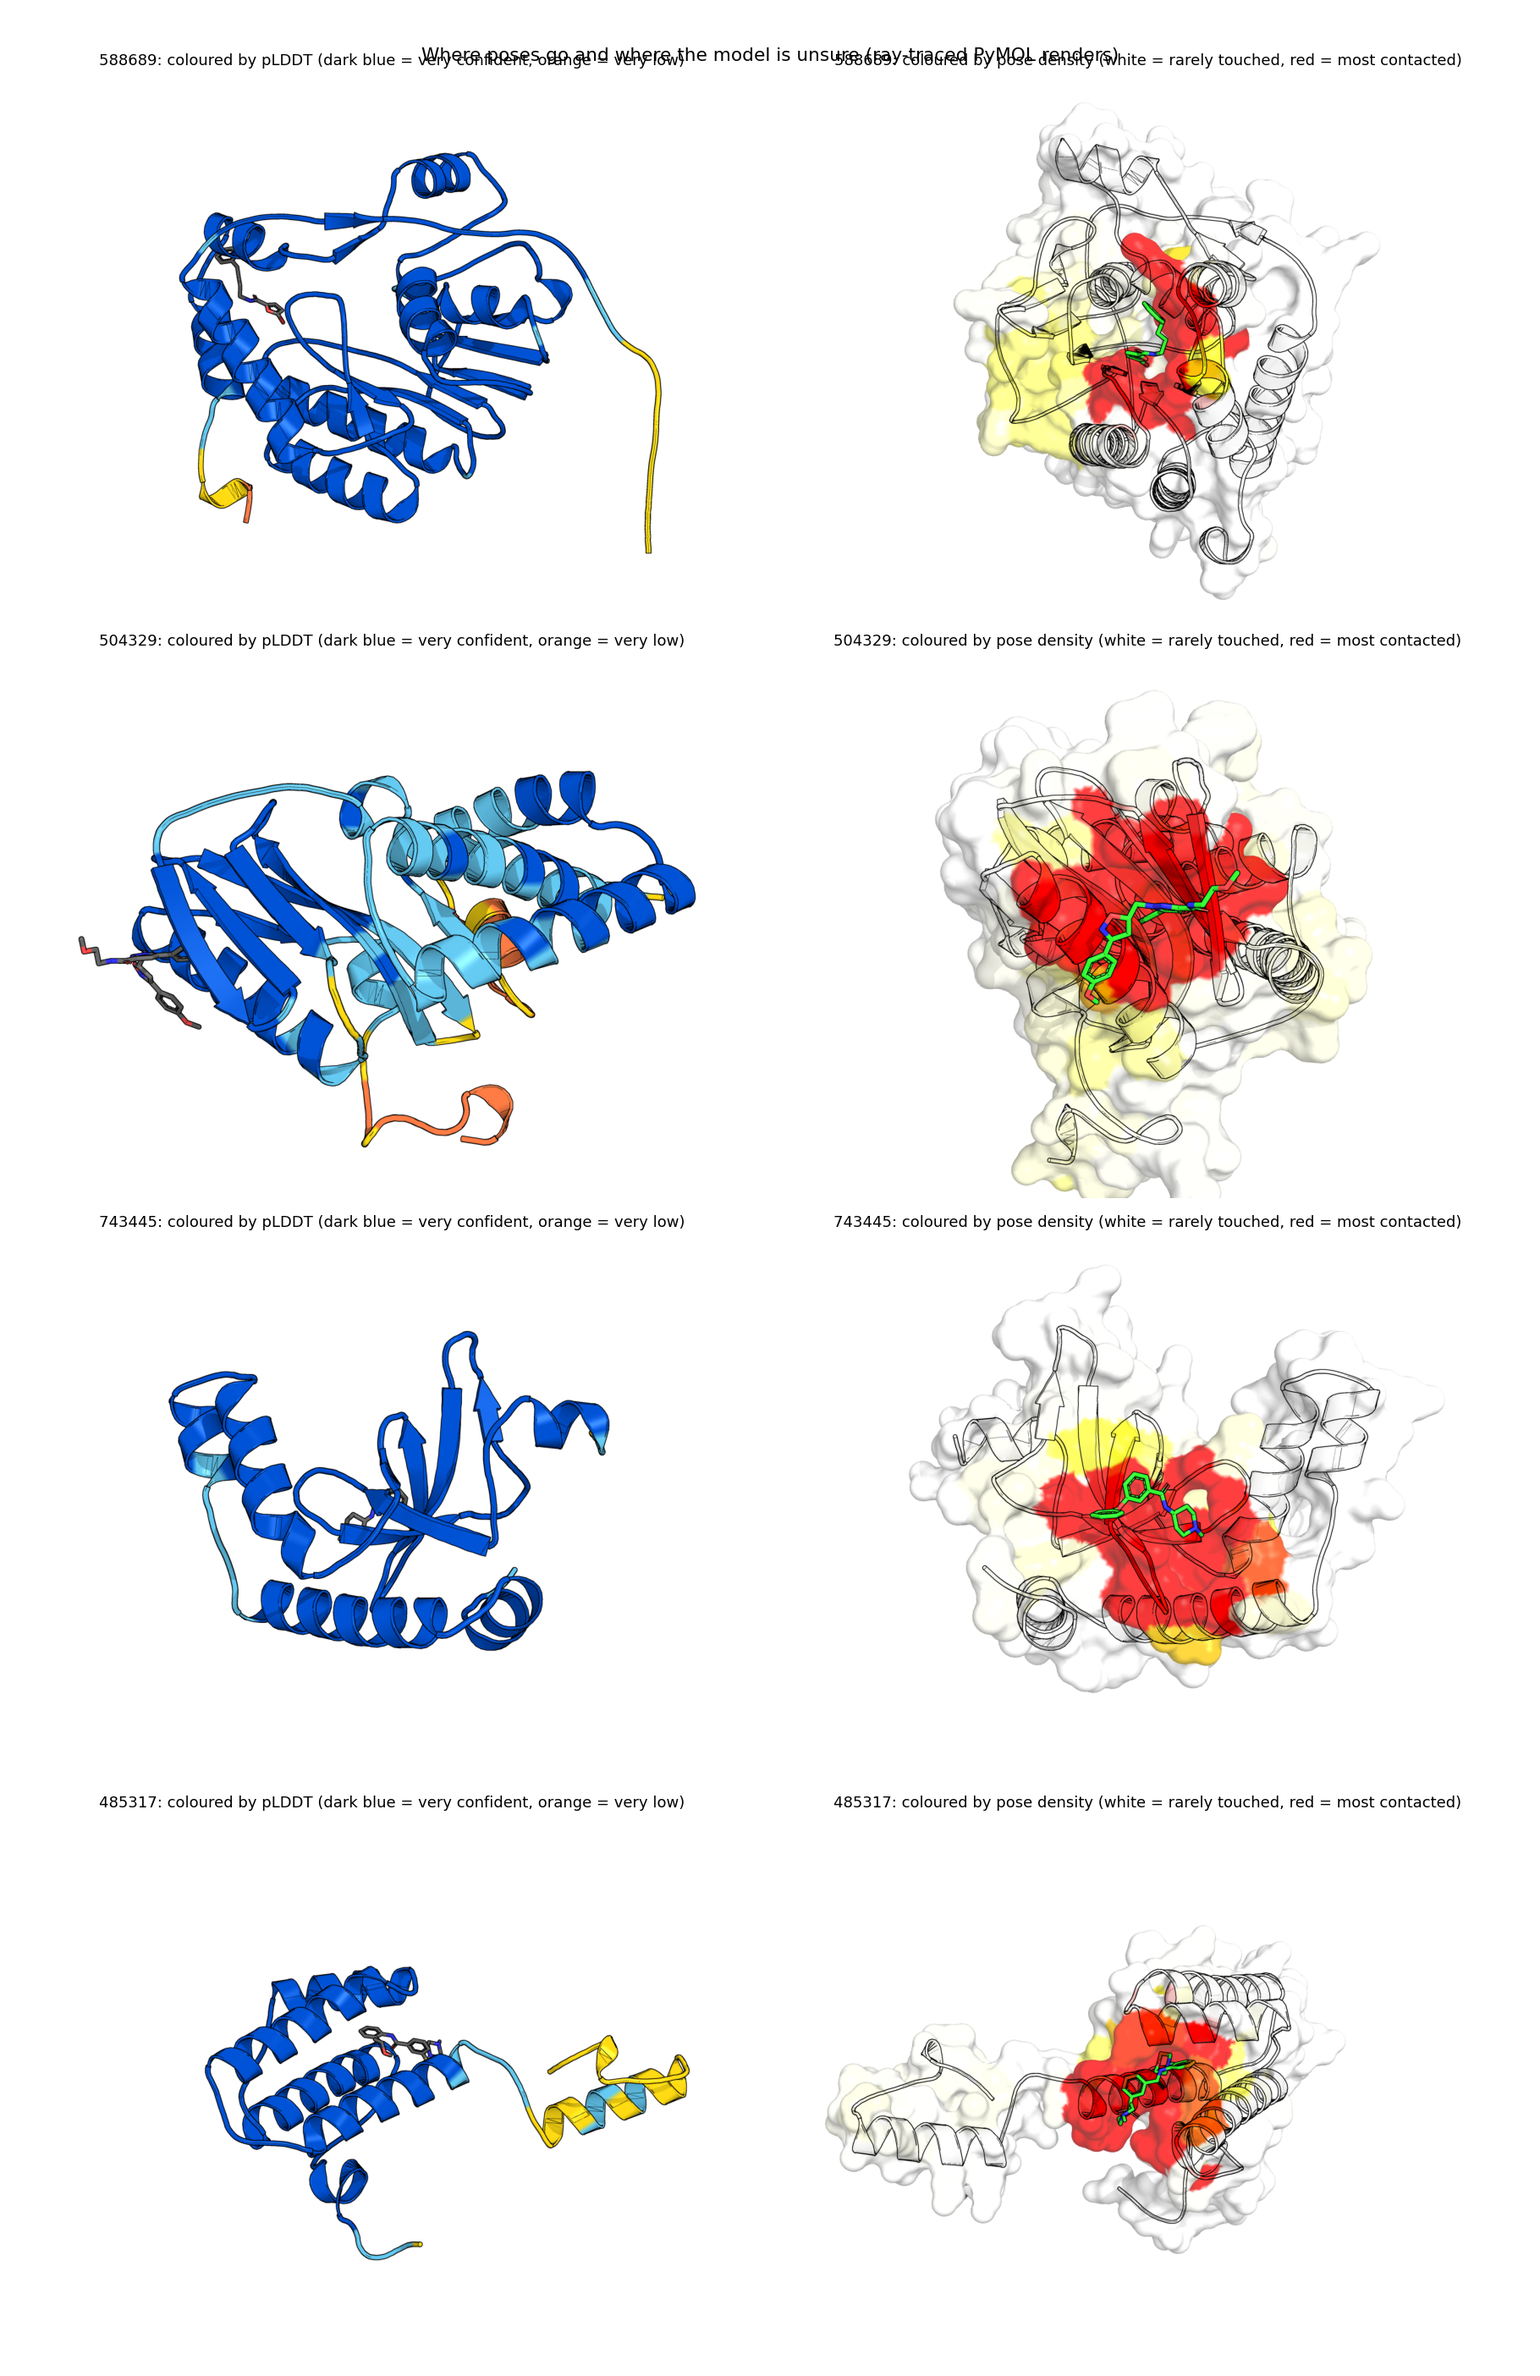
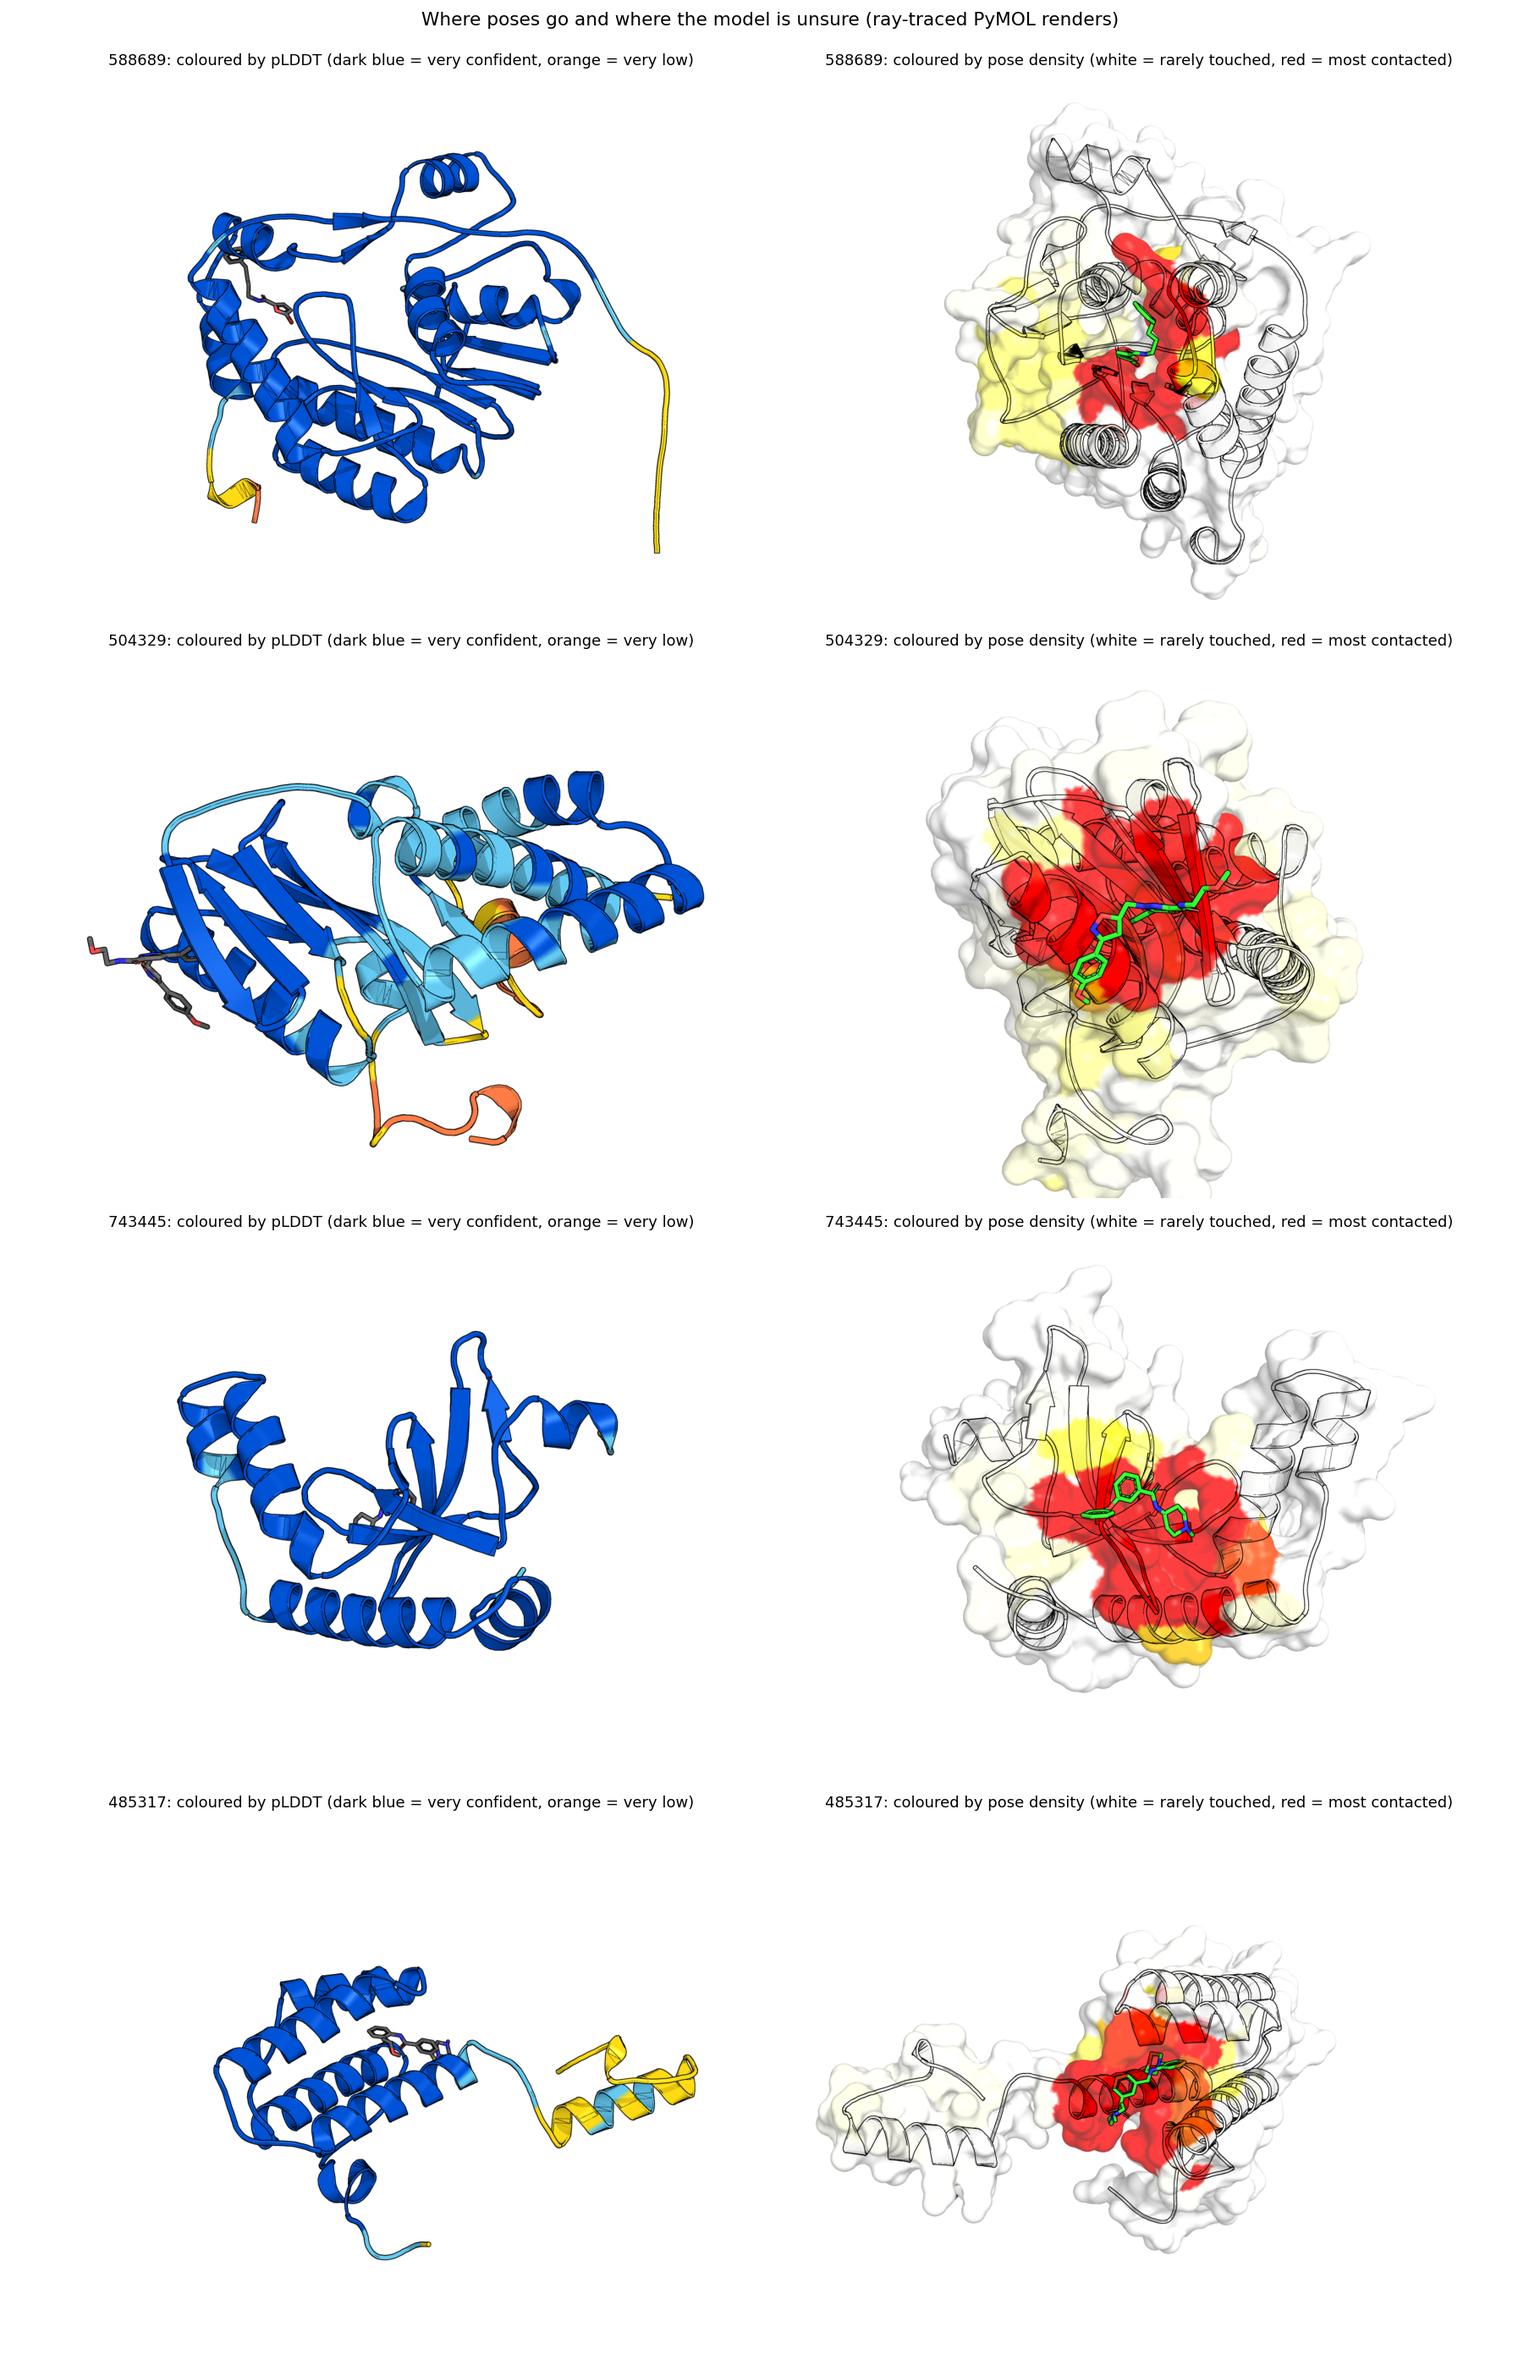
Fix the overlapping title in the localisation figure

diff --git a/pipeline_local/make_readme_figures.py b/pipeline_local/make_readme_figures.py
@@ -167,4 +167,4 @@ for i, t in enumerate(DONE):
         p = bc.AN / t / "render" / f"{v}.png"; ax = axes[i, j]; ax.axis("off")
         if p.exists(): ax.imshow(mpimg.imread(p))
         ax.set_title(f"{SH[t]}: {ti}", fontsize=10)
-fig.suptitle("Where poses go and where the model is unsure (ray-traced PyMOL renders)"); save(fig, "finding_8_localization.png")
+fig.suptitle("Where poses go and where the model is unsure (ray-traced PyMOL renders)", y=0.995); fig.tight_layout(rect=(0, 0, 1, 0.975)); save(fig, "finding_8_localization.png")
